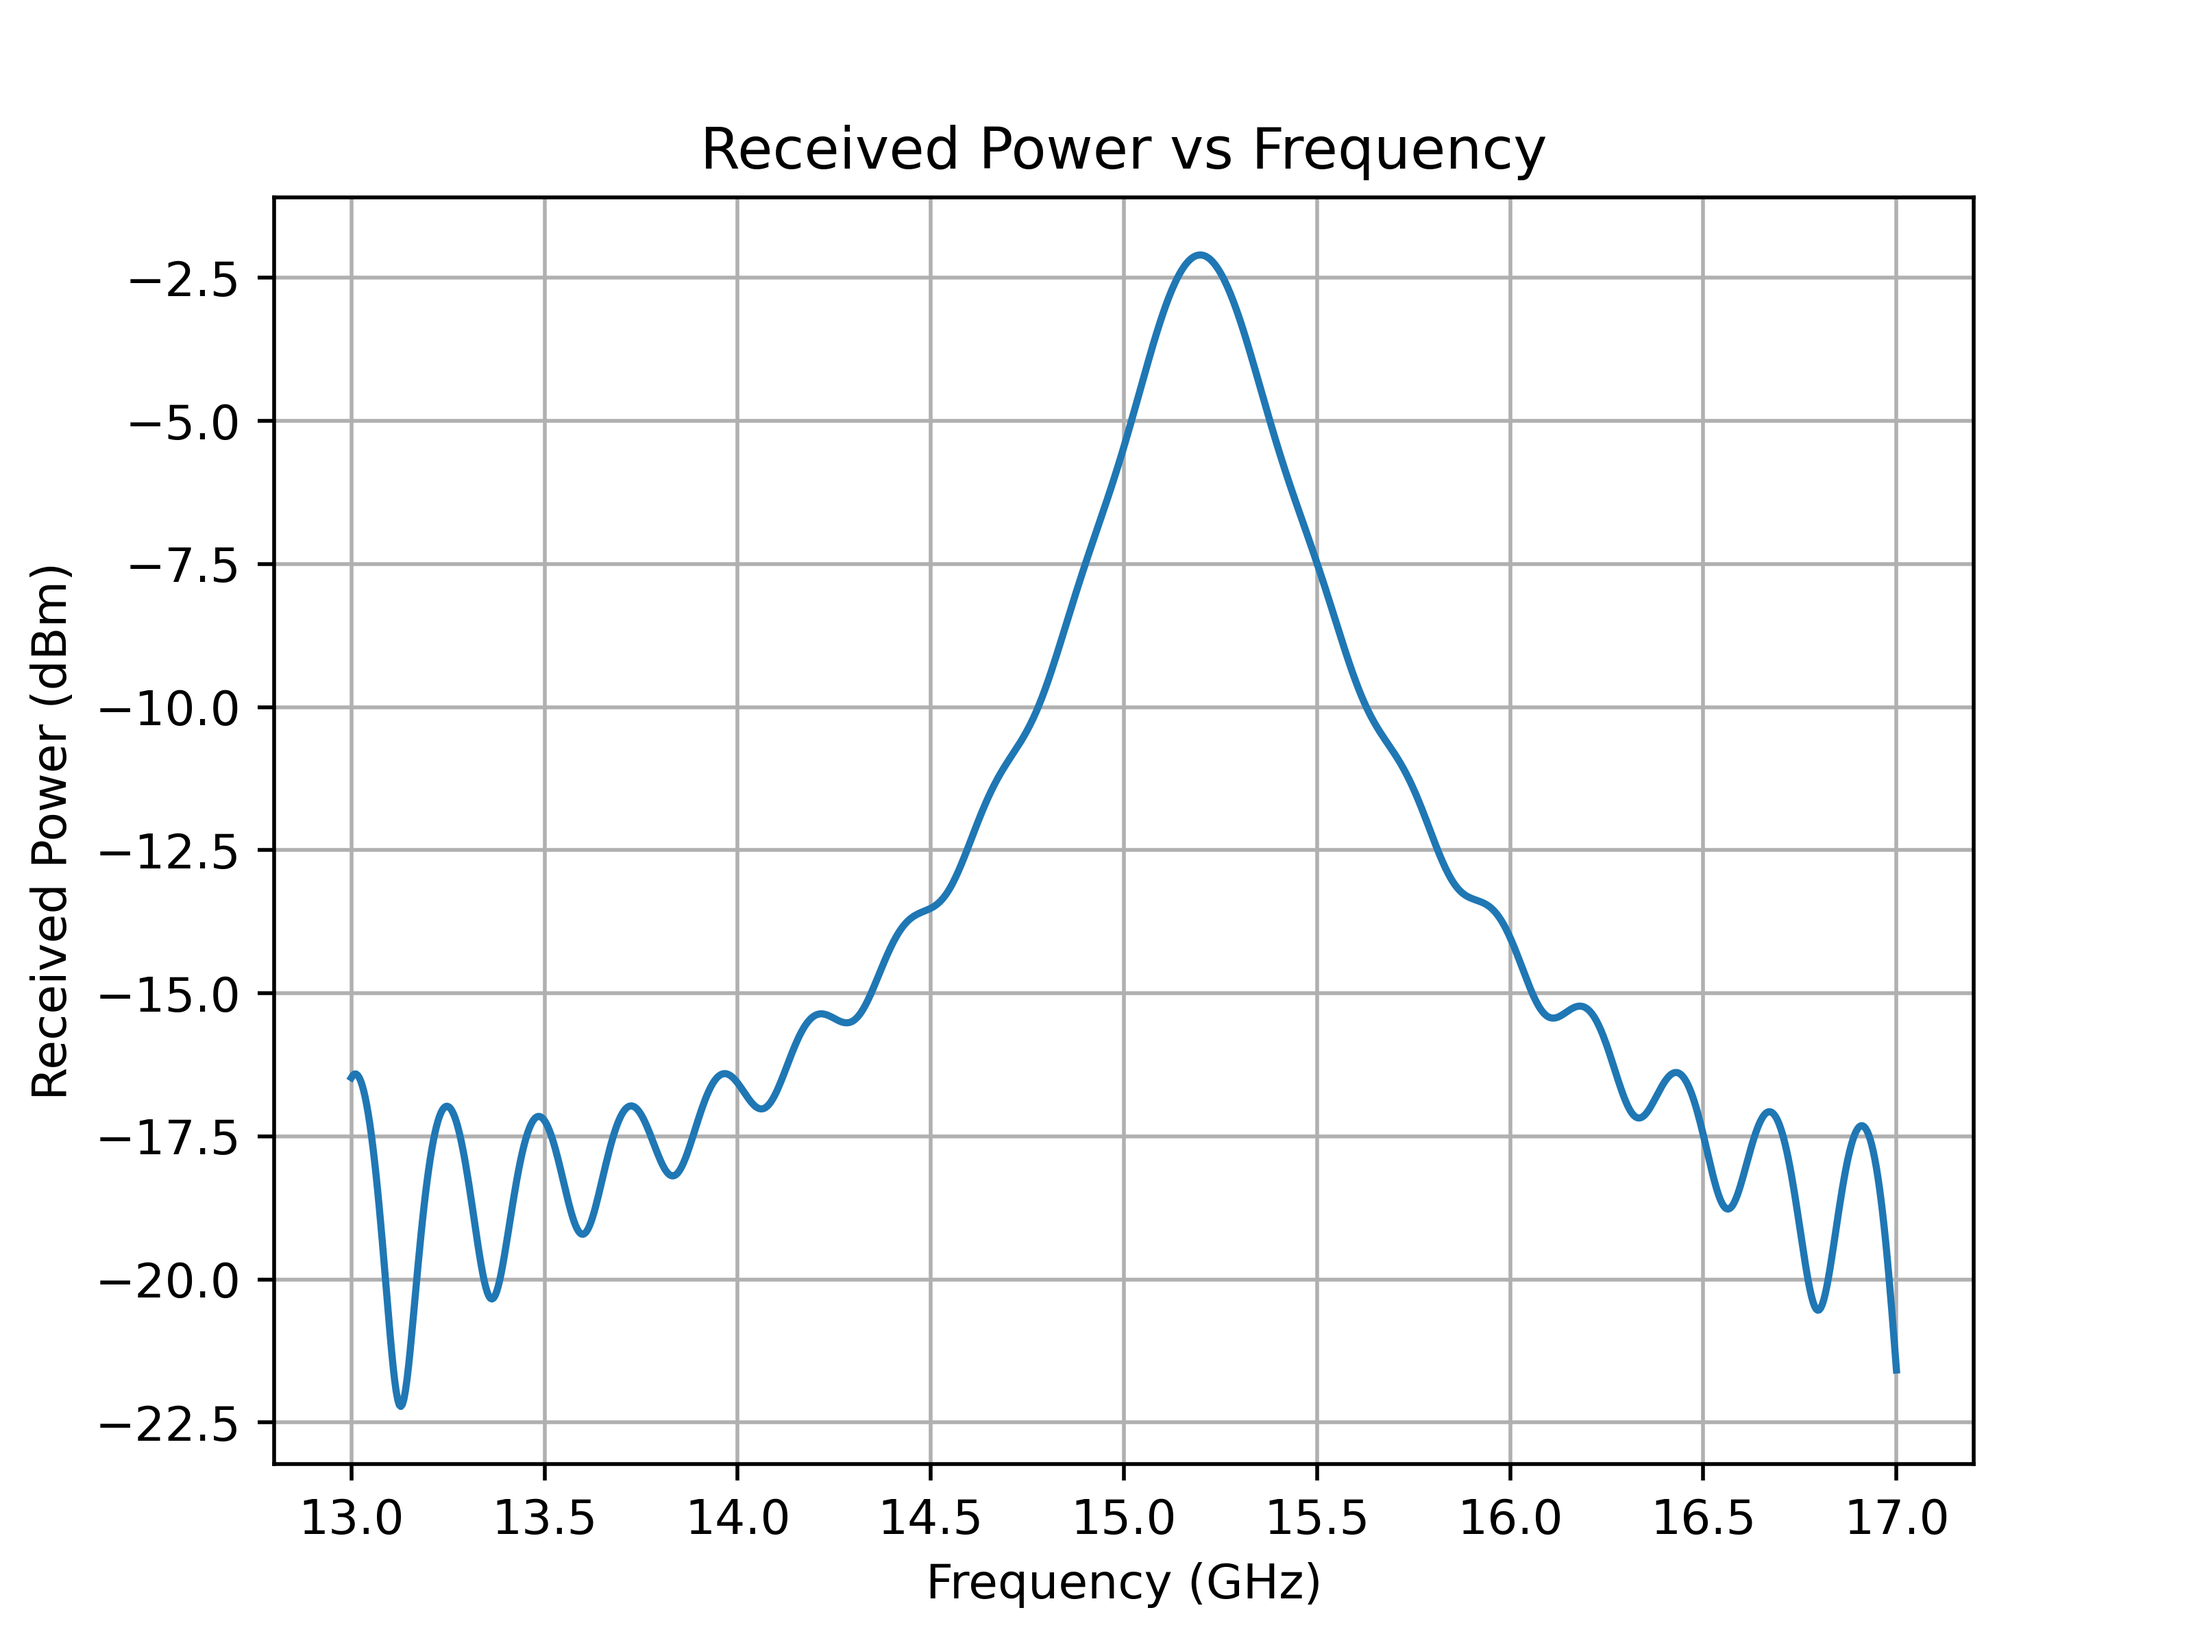
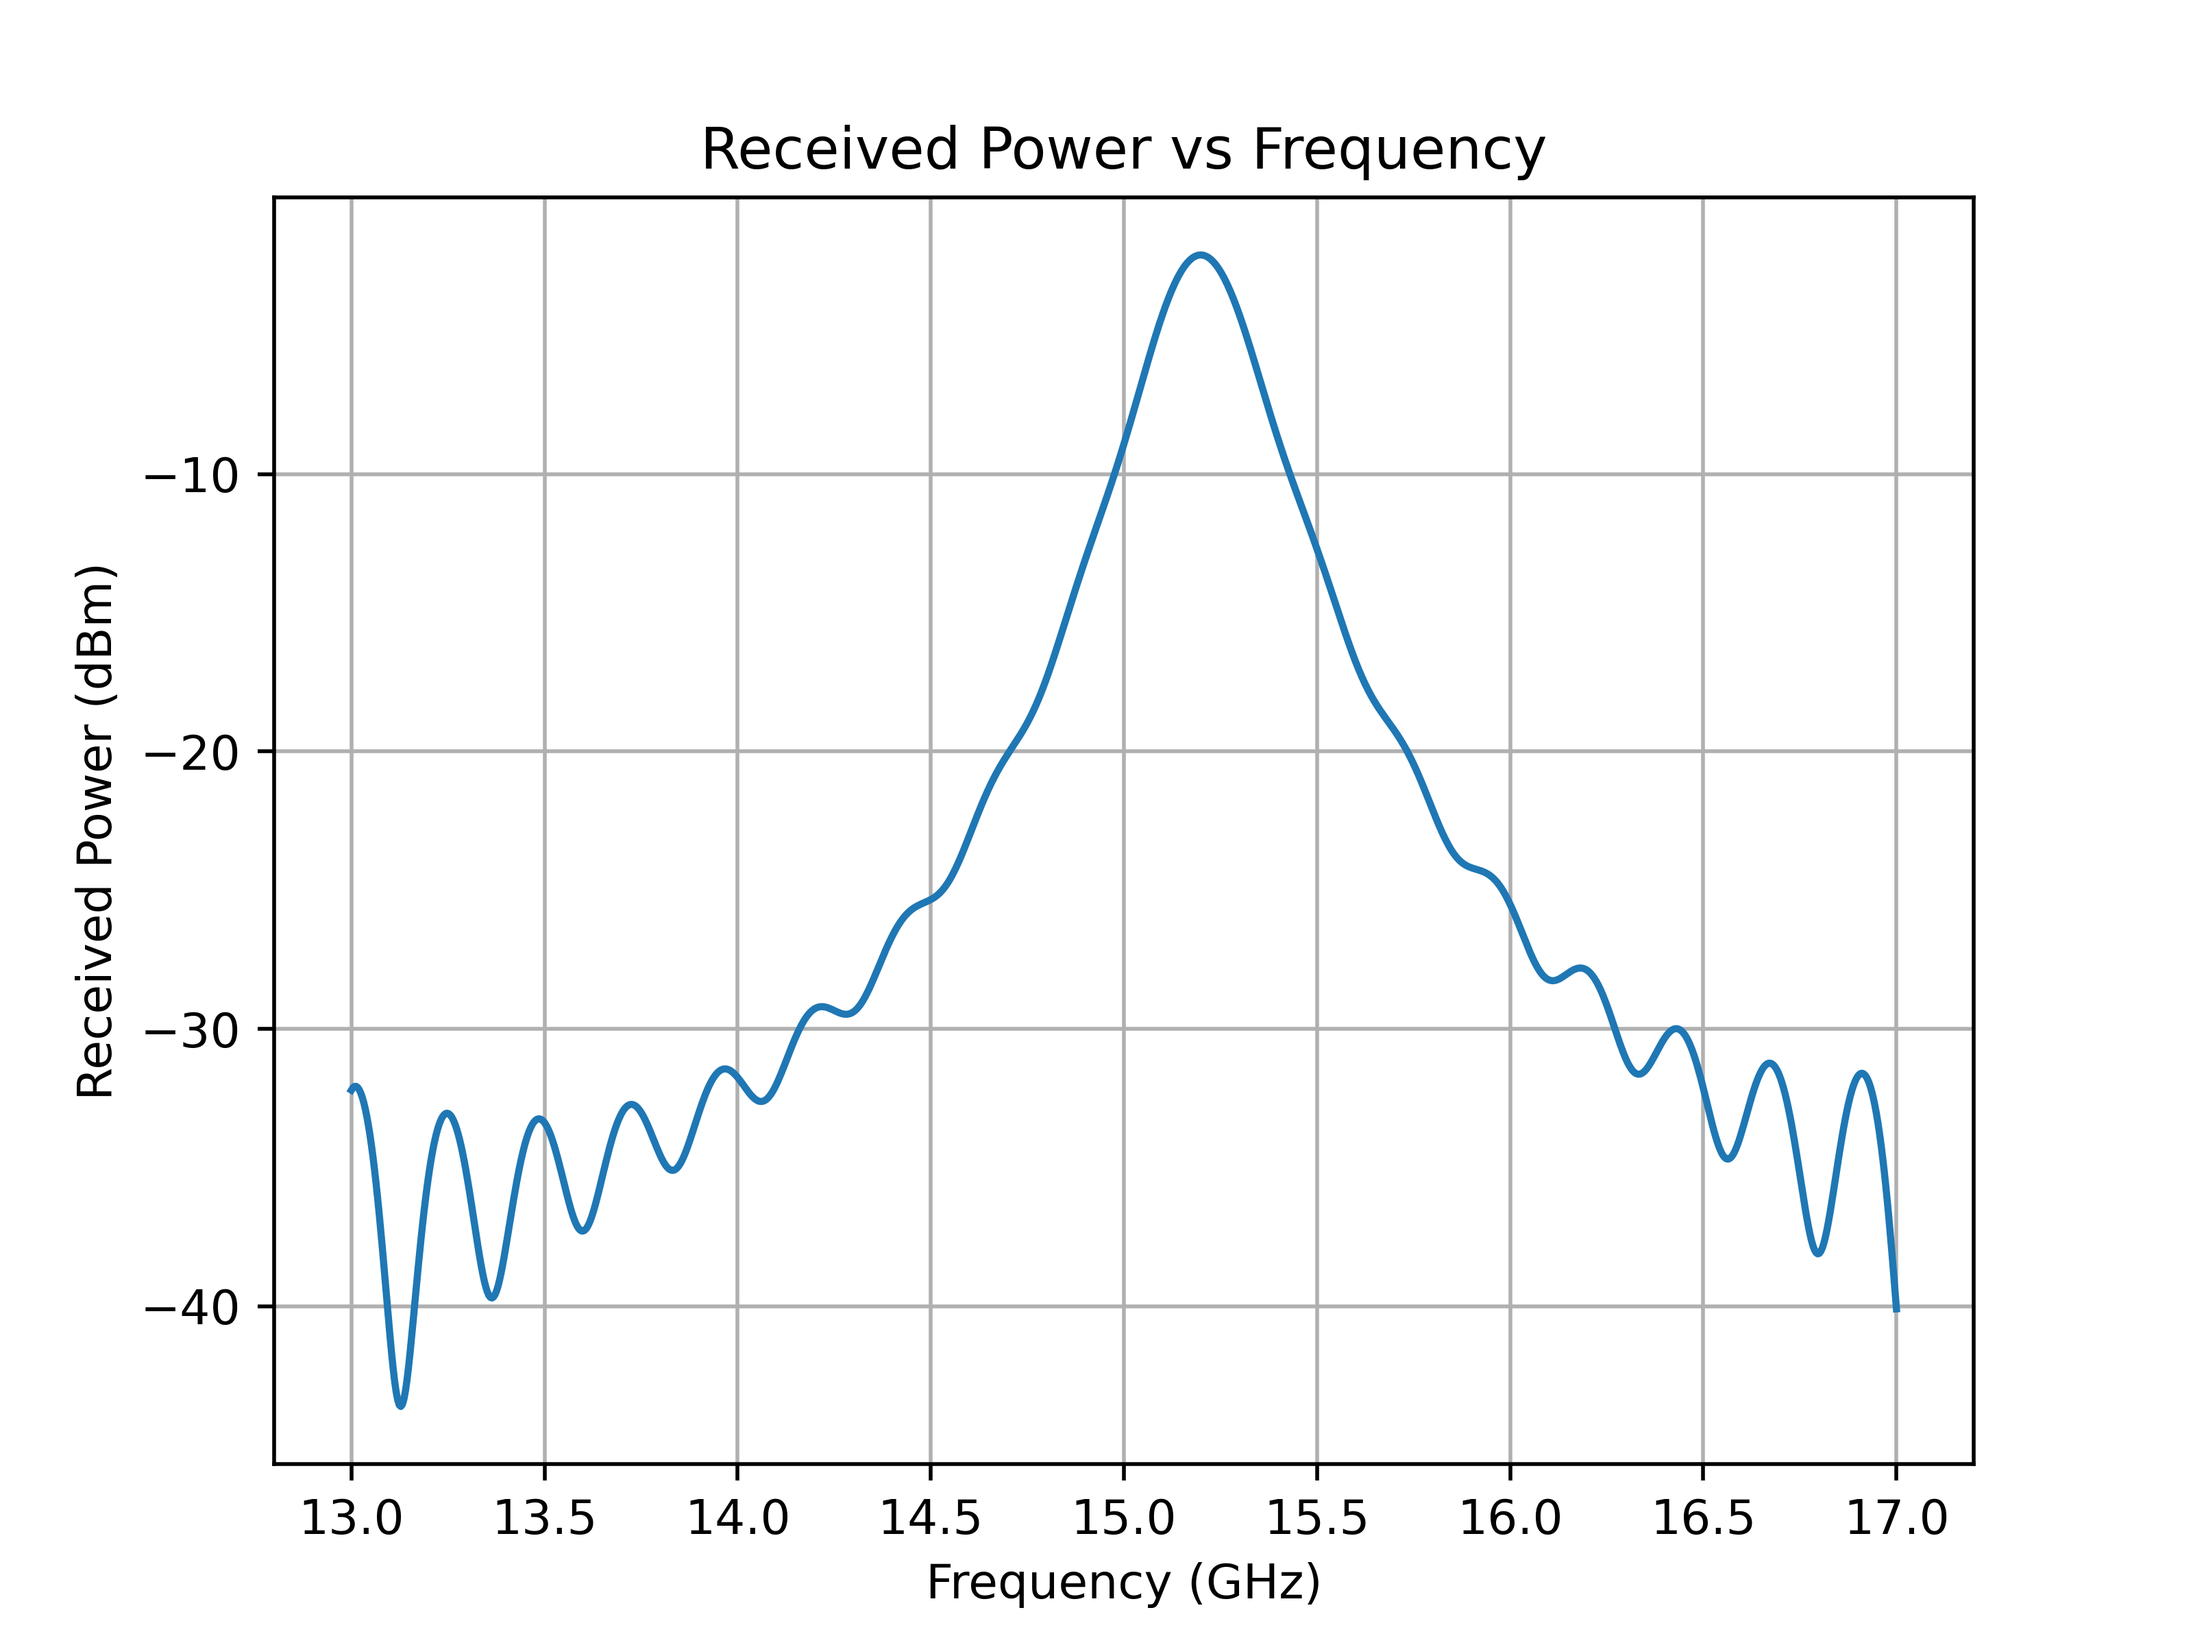
For the report

diff --git a/lab2/lab2_exercise1.py b/lab2/lab2_exercise1.py
@@ -17,7 +17,7 @@ print(f"1a: The refelction coefficient is: {np.abs(Gamma)**2}")
 # =============================================================================
 # b
 # =============================================================================
-c0 = 299_792_458
+c0 = 3e8
 f = 15e9
 
 lambd = c0/f
@@ -35,11 +35,8 @@ print(f"1b: The input impedane Z_in is = {Zin}")
 
 Pi = 0.1
 
-Ztot = Zg+Zin
-Itot = np.sqrt(Pi/Ztot)
-Pinc = np.abs(Itot)**2 / 2 * np.real(Zin)
-Pl = Pinc * (1-np.abs(Gamma)**2)
-Pr = Pinc * np.abs(Gamma)**2
+Pl = Pi * (1-np.abs(Gamma)**2)
+Pr = Pi * np.abs(Gamma)**2
 
 print(f"1c: Pl = {Pl}, Pr = {Pr}")
 

diff --git a/lab2/Lab2_exercise2.py b/lab2/Lab2_exercise2.py
@@ -17,9 +17,13 @@ def P_r(f):
     Zg = 50
     G = 10**2
     R = 2
-    Pt = 0.1*(1-np.abs((ZA(f)-Zg)/(ZA(f)+Zg))**2)
-    Pr = Pt * G ** 2 * (3e8/(4*np.pi*f*R))**2
-    return Pr
+    c = 3e8
+    gamma = (ZA(f) - Zg) / (ZA(f) + Zg)
+    mismatch_efficiency = 1 - np.abs(gamma)**2
+    Pt = 0.1 * mismatch_efficiency
+    Pr_available = Pt * (G ** 2) * (c / (4 * np.pi * f * R))**2
+    Pr_delivered = Pr_available * mismatch_efficiency
+    return Pr_delivered
 
 Pr = P_r(freq)
 plt.plot(freq*1e-9, 10*np.log10(Pr)+30)

diff --git a/lab2/Lab2_exercise3.py b/lab2/Lab2_exercise3.py
@@ -65,6 +65,10 @@ betayz = k*lambda_range/ly
 D = 4*np.pi/(betaxz*betayz)
 plt.plot(freq_range, D)
 plt.title("directivity vs freq")
+plt.xlabel("Frequency (Hz)")
+plt.ylabel("Directivity")
+plt.grid()
+plt.savefig("plots/3b.png")
 plt.show()
 
 
@@ -95,5 +99,6 @@ fig.supxlabel("Frequency")
 fig.supylabel("Directivity")
 
 plt.tight_layout()
+plt.savefig("plots/3d.png")
 plt.show()
 
